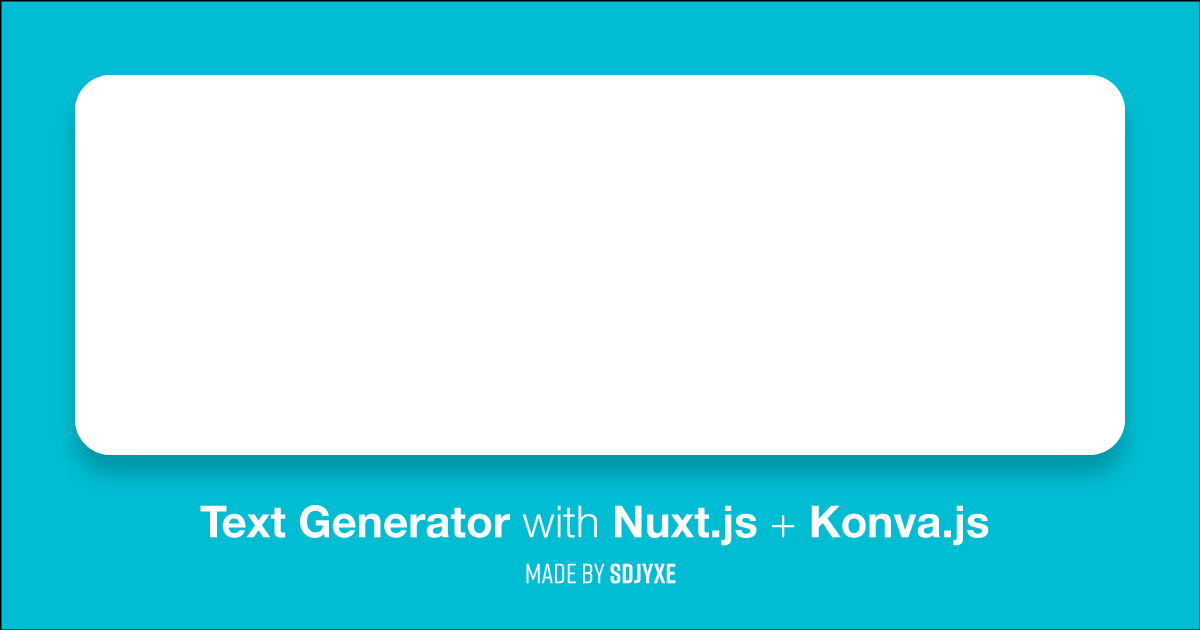
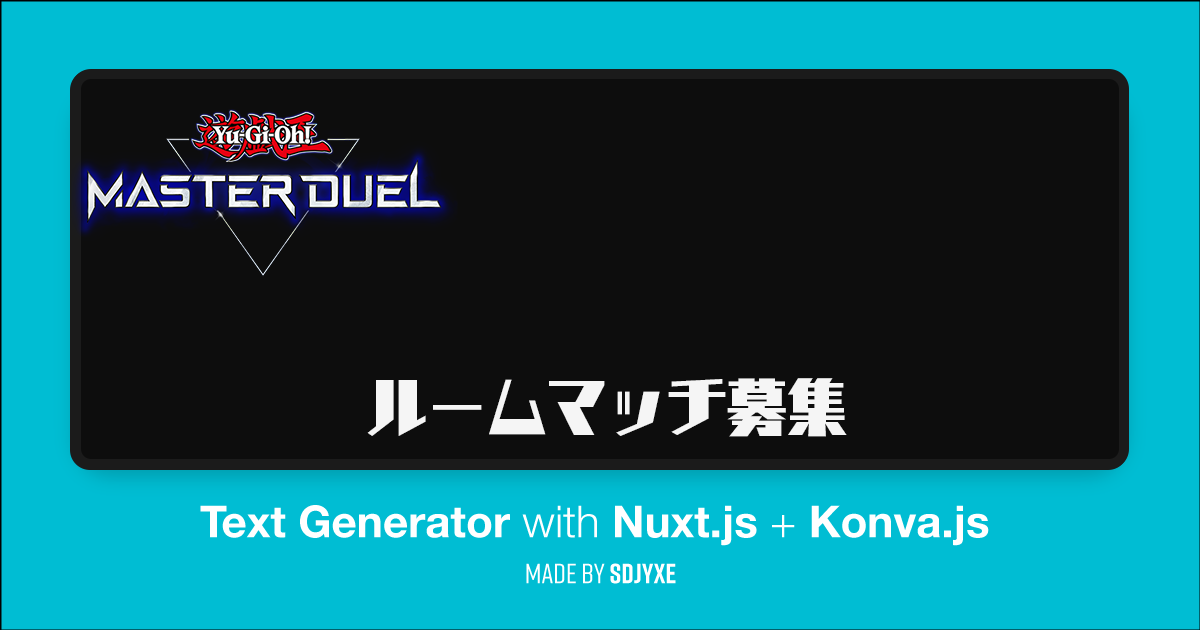
first commit

diff --git a/pages/index.vue b/pages/index.vue
@@ -1,24 +1,21 @@
 <template>
   <section class="section container">
-    <h1 class="title">Text Image Generator</h1>
+    <h1 class="title">MDルムマ画像くん（Haruki Kinoshita様のリポジトリを使用、一部改変）</h1>
     <div class="column is-6">
       <!-- 入力フォーム -->
+      <a href="https://github.com/HarukiKinoshita">元コード製作者様GitHub</a><br>
+      <a href="https://twitter.com/hage_urara">改変者Twitter</a>
       <b-field
-        label="テキスト"
+        label="ルムマID"
         position="is-centered"
       >
         <b-input
-          placeholder="Type Something"
+          placeholder="ルームマッチIDを入力してね"
           type="text"
           v-model="inputText"
         />
       </b-field>
-
-      <!-- 文字サイズを調節するスライダー -->
-      <b-field label="文字サイズ">
-        <b-slider v-model="fontSize" :min="24" :max="48" :step="4" ticks rounded>
-        </b-slider>
-      </b-field>
+      
     </div>
 
       <div id="konvaCanvas" style="margin: auto;">
@@ -48,7 +45,7 @@
               verticalAlign: 'middle',
               offsetY: 20,
               fill: '#b0bec5',
-              fontSize: fontSize,
+              fontSize: 60,
               fontFamily: 'Helvetica',
               fontStyle: 'bold',
               lineHeight: 1.4,
@@ -61,11 +58,49 @@
         </v-stage>
       </div>
       <b-button @click="save" class="button is-primary mt-4" icon-left="download">
-        画像を保存
+        画像を保存＆ツイート用の文章をコピペ
       </b-button>
+
 
   </section>
 </template>
+
+<script>
+export default {
+  metaInfo: {
+    meta: [
+      {
+        property: 'og:site_name',
+        content: 'MDルムマ画像くん'
+      },
+      {
+        property: 'og:type',
+        content: 'website'
+      },
+      {
+        property: 'og:url',
+        content: 'https://yugioh.day'
+      },
+      {
+        property: 'og:title',
+        content: 'MDルムマ画像くん'
+      },
+      {
+        property: 'og:description',
+        content: '遊戯王マスターデュエルのルームマッチ募集画像を作成するサイトです。'
+      },
+      {
+        property: 'og:image',
+        content: 'https://sample.netlify.com/sample.jpg'
+      },
+      {
+        name: 'twitter:card',
+        content: 'summary_large_image'
+      }
+    ]
+  }
+};
+</script>
 
 <script>
 export default {
@@ -96,10 +131,12 @@ export default {
       link.href = stage.toDataURL({
         // ステージを2倍に拡大する
         pixelRatio: 2
+        
       })
       document.body.appendChild(link);
       link.click();
       document.body.removeChild(link);
+      navigator.clipboard.writeText(`ルムマID：${this.inputText}`);
     }
   },
 }

diff --git a/nuxt.config.js b/nuxt.config.js
@@ -3,7 +3,7 @@ export default {
   
   // Global page headers: https://go.nuxtjs.dev/config-head
   head: {
-    title: 'nuxt-text-image-generator',
+    title: 'MDルムマ画像くん',
     htmlAttrs: {
       lang: 'ja'
     },
